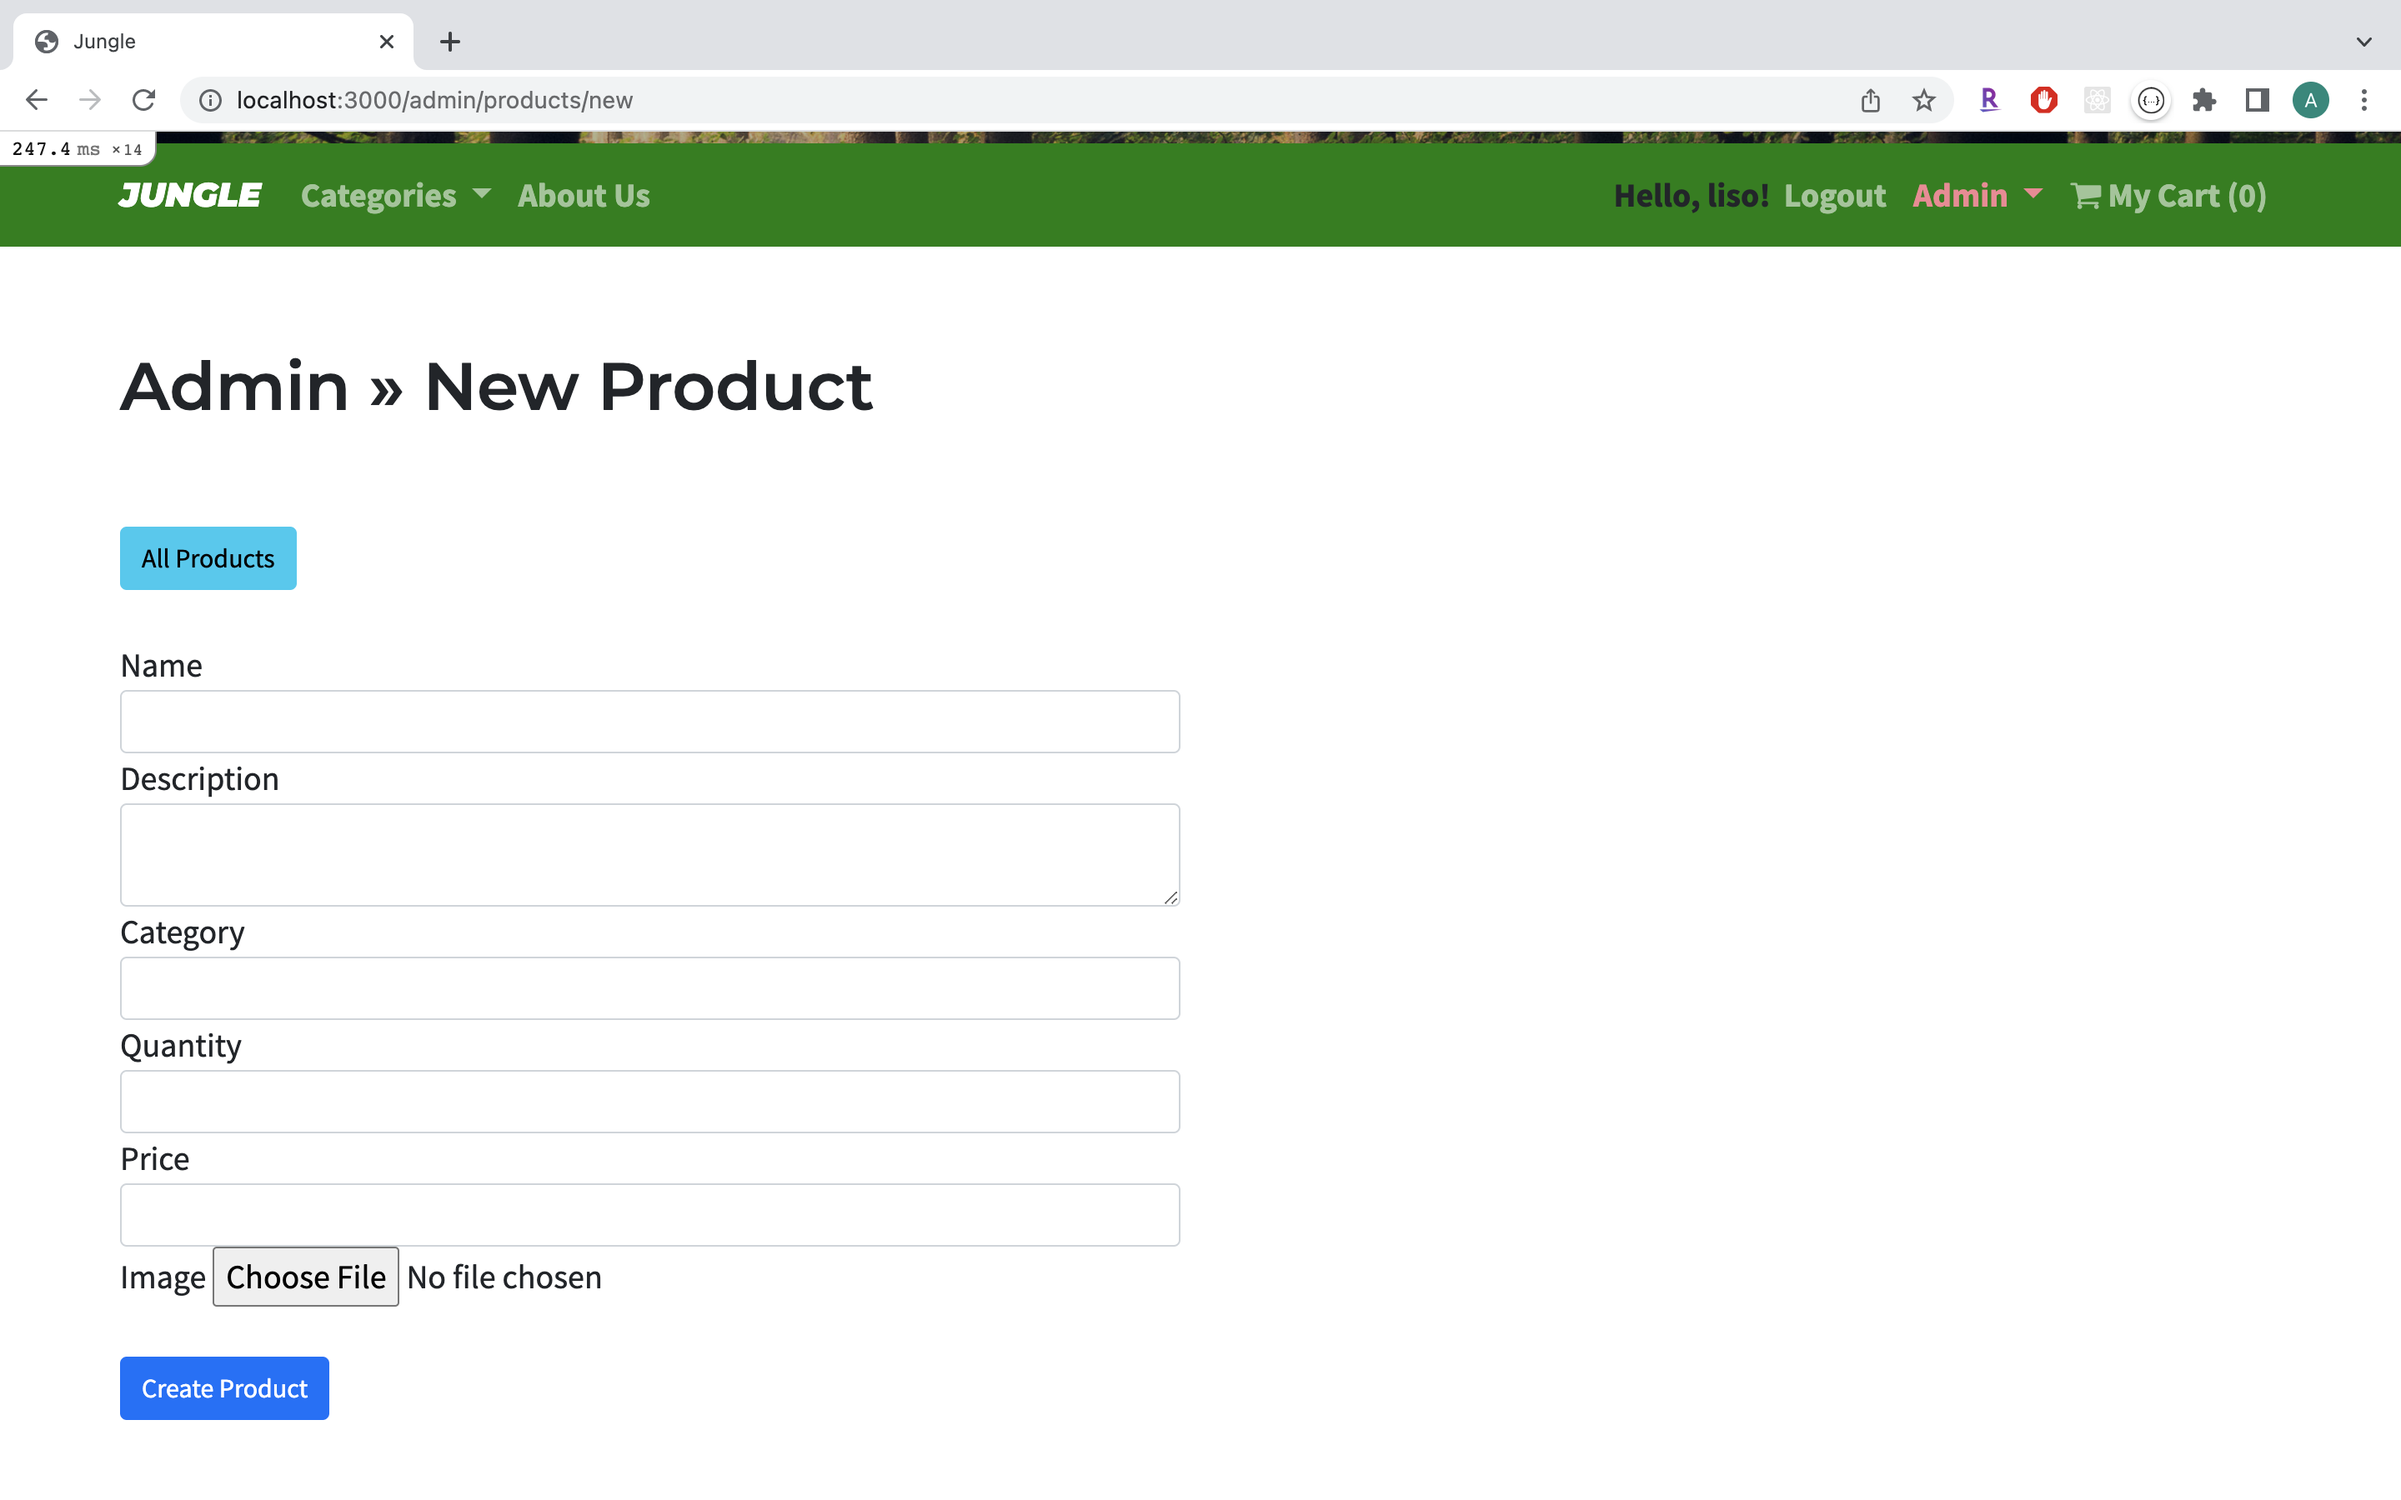
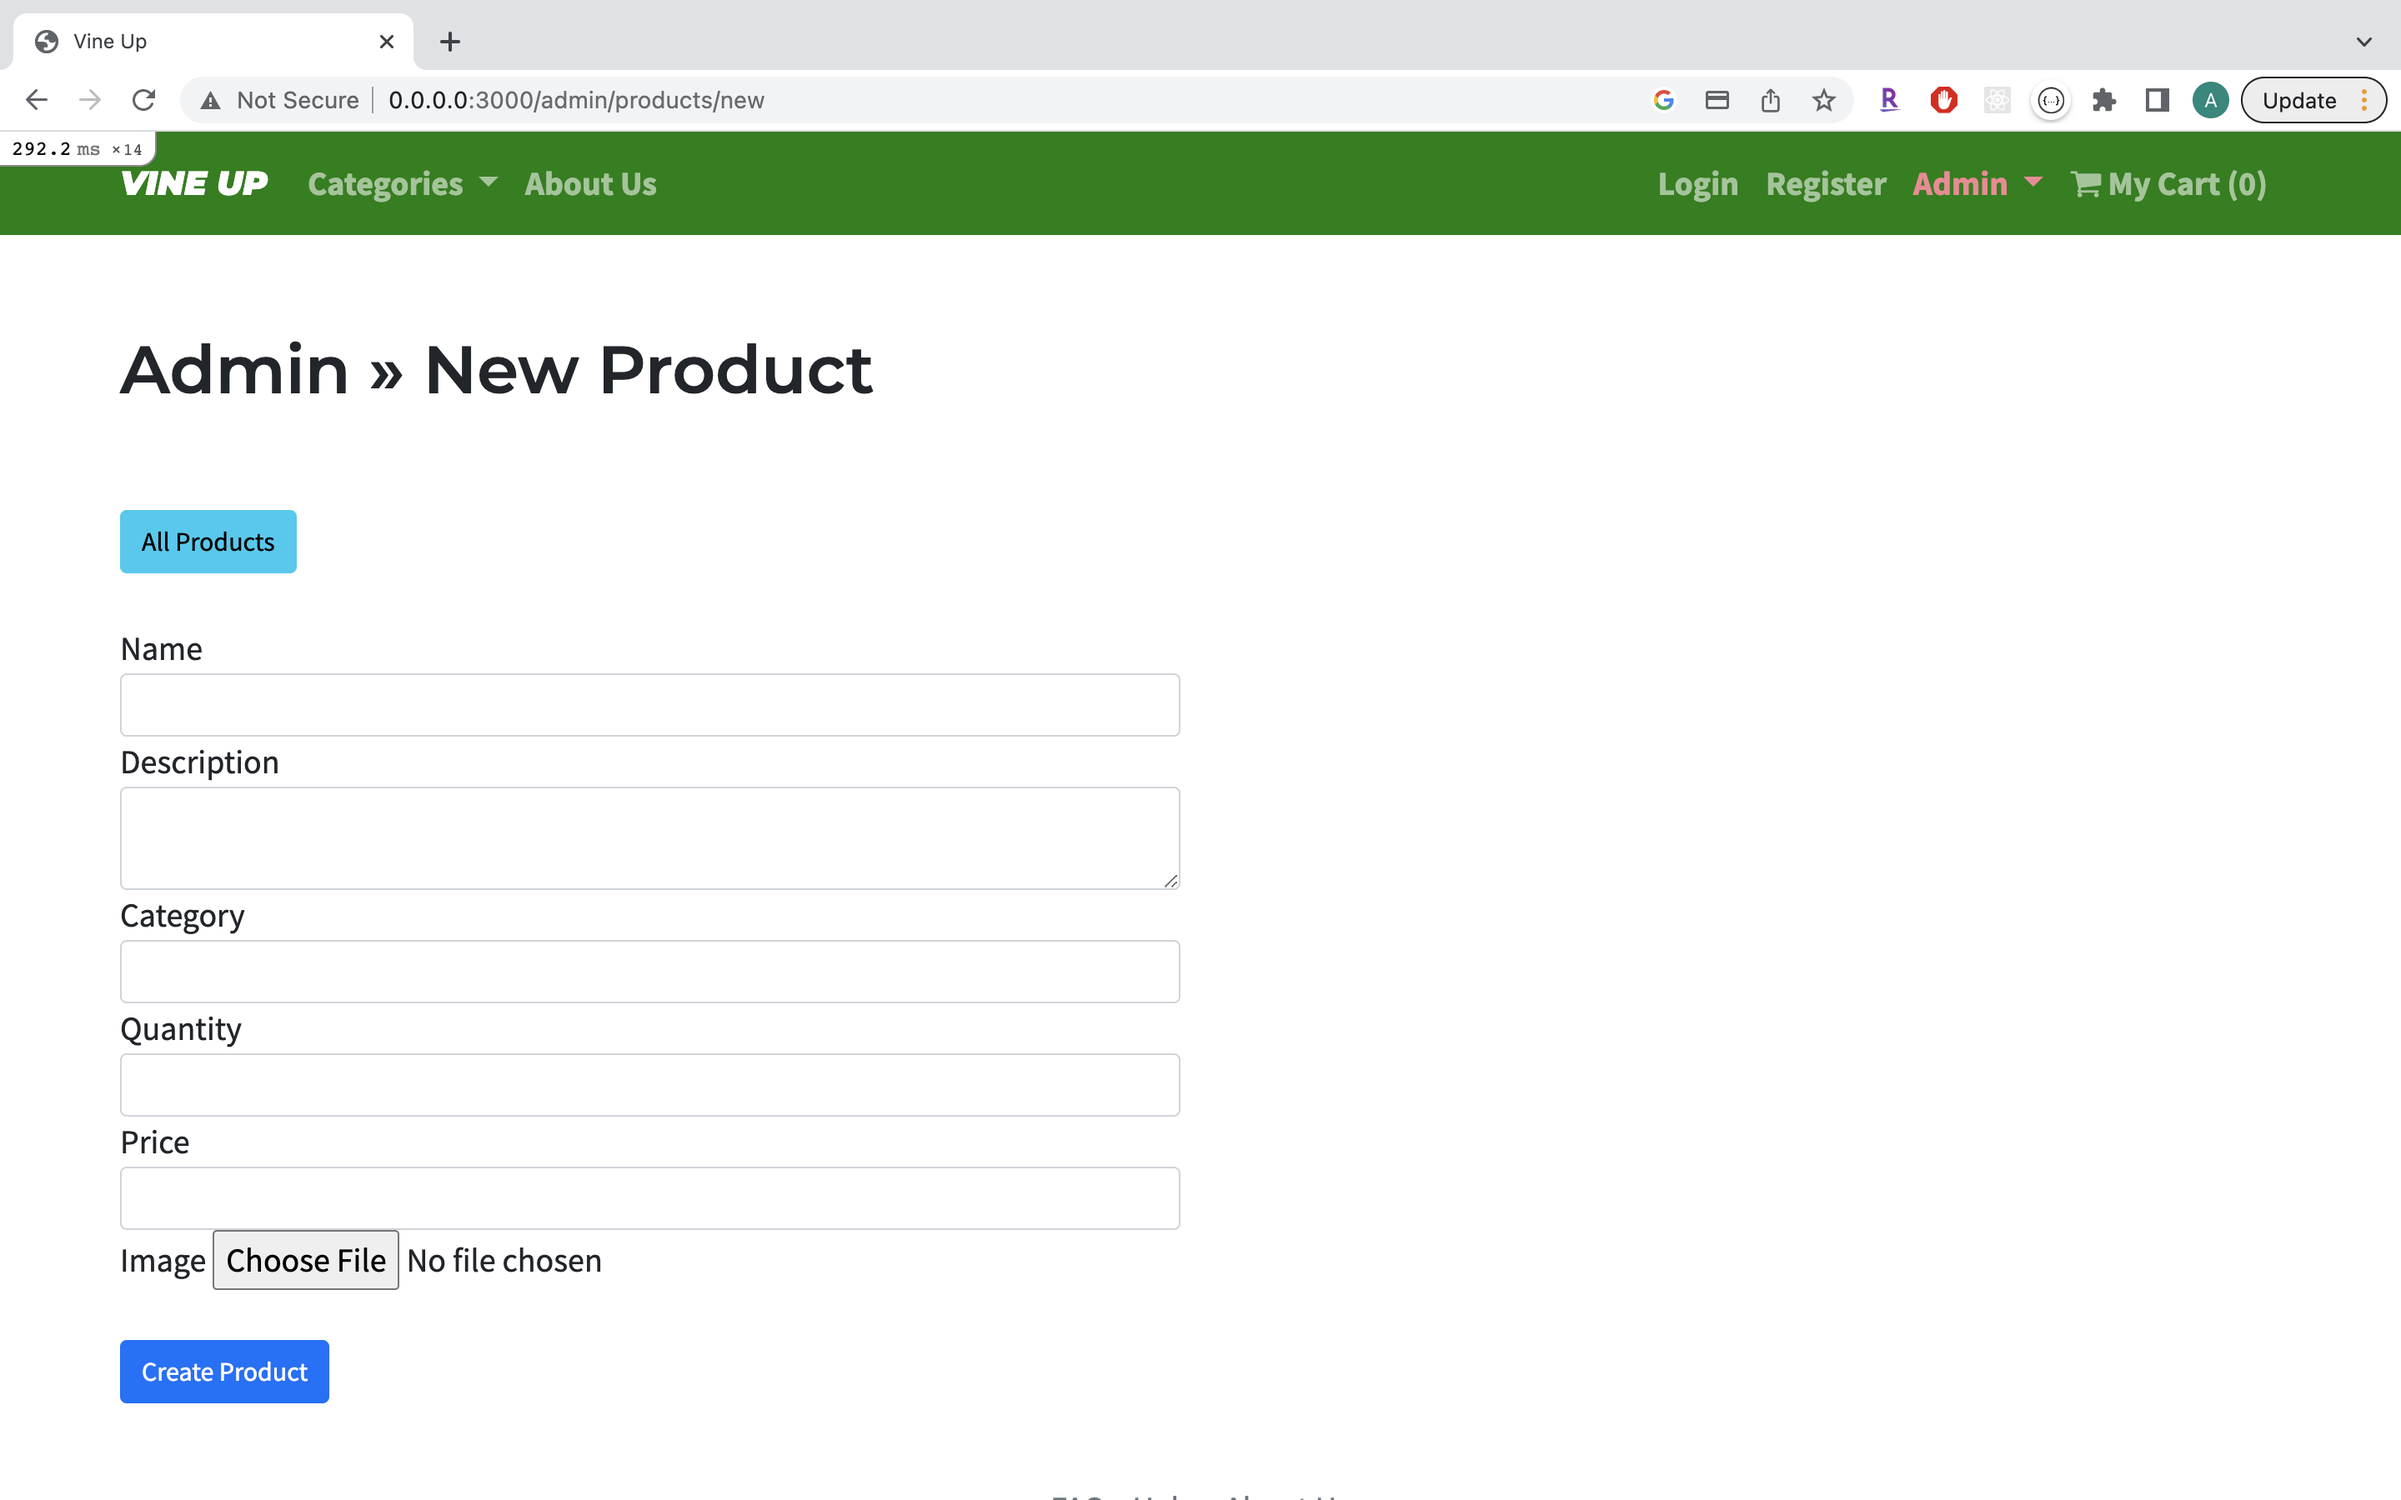
README.md

diff --git a/app/assets/stylesheets/application.scss b/app/assets/stylesheets/application.scss
@@ -31,7 +31,7 @@ form.button_to {
 
 .hero {
   height: 75vh;
-  background-image: url("/images/hero_header.jpg");
+  background-image: url("/images/amazon-rainforest.jpeg");
   background-color: rgba(0, 0, 0, 0.3);
   background-blend-mode: darken;
   background-size: cover;
@@ -87,6 +87,7 @@ form.button_to {
     font-style: italic;
     text-align: right;
     font-size: 1.4em;
+    padding-right: 8rem;
   }
 }
 

diff --git a/app/controllers/orders_controller.rb b/app/controllers/orders_controller.rb
@@ -30,7 +30,7 @@ class OrdersController < ApplicationController
     Stripe::Charge.create(
       source:      params[:stripeToken],
       amount:      cart_subtotal_cents,
-      description: "Khurram Virani's Jungle Order",
+      description: "Khurram Virani's Vine Up Order",
       currency:    'cad'
     )
   end

diff --git a/README.md b/README.md
@@ -1,4 +1,4 @@
-# Jungle
+# Vine Up
 
 A mini e-commerce application that sells plants, built with Rails 6.1.
 
